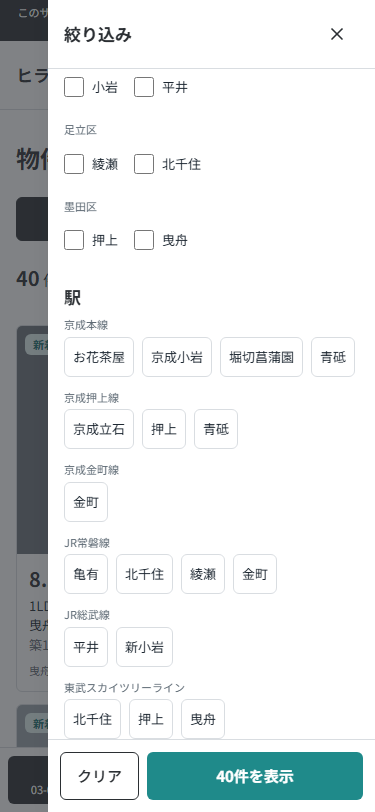
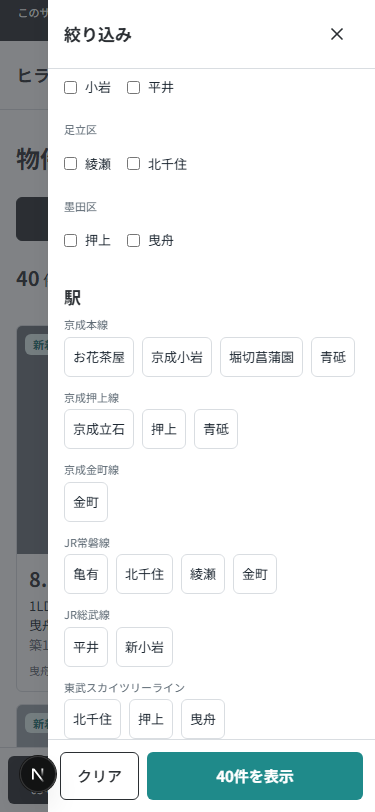
style: match checkbox size to filter text [J-035]

diff --git a/web/src/components/search/FilterPanel.tsx b/web/src/components/search/FilterPanel.tsx
@@ -186,10 +186,11 @@ function Chip({ label, pressed, onClick }: { label: string; pressed: boolean; on
 	);
 }
 
+/** チェックボックスは項目文字(小 13px)と同じ高さ(J-035 条件追加)。色・角丸はブラウザ既定+accent のまま */
 function Check({ label, checked, onChange }: { label: string; checked: boolean; onChange: () => void }) {
 	return (
 		<label className="flex min-h-11 items-center gap-2 text-small lg:min-h-0">
-			<input type="checkbox" checked={checked} onChange={onChange} className="h-5 w-5 accent-accent" />
+			<input type="checkbox" checked={checked} onChange={onChange} className="size-[13px] accent-accent" />
 			{label}
 		</label>
 	);

diff --git a/docs/記録シート.md b/docs/記録シート.md
@@ -321,9 +321,9 @@
 
 ### J-035 | 09/09 | 物件一覧 / Des | 章 2
 - **AIの初案**:絞り込み欄(PC 左カラム・ドロワー)の項目文字は本文と同じサイズ(15 / 16px)。区名・沿線名の小見出しは 小 13px。チップは 13px・内側余白 12
-- **自分の判断**:条件追加 — SHIN が「大きい」と指摘。項目文字は本文より1段小さく、区名・沿線名はさらに1段小さく。「エリア」「駅」の見出しは変えない。チップの内側余白は文字に合わせて1段詰める。px は 03 §4 のスケールから取る
+- **自分の判断**:条件追加 — SHIN が「大きい」と指摘。項目文字は本文より1段小さく、区名・沿線名はさらに1段小さく。「エリア」「駅」の見出しは変えない。チップの内側余白は文字に合わせて1段詰める。px は 03 §4 のスケールから取る。条件追加(09/09):チェックボックスの四角が文字に対して大きい。下げた後の項目文字サイズに合わせる(文字の高さと同程度・03 の文字スケールから)。色・角丸は変えない。ドロワー側も同じ
 - **判断の出所**:
-- **修正後**:項目(チェックボックスのラベル・セレクト)= 小 13px、区名・沿線名 = 最小 11 / 12px、見出しは H3 17 / 18px のまま、チップ 13px・余白 12 → 8。すべて 03 §4 のスケール内で提案なし。03 §6 に追記し v0.7
+- **修正後**:項目(チェックボックスのラベル・セレクト)= 小 13px、区名・沿線名 = 最小 11 / 12px、見出しは H3 17 / 18px のまま、チップ 13px・余白 12 → 8。チェックボックス 20px → 13px(項目文字と同じ高さ・別コミット)。すべて 03 §4 のスケール内で提案なし。03 §6 に追記し v0.7
 - **証拠**:docs/screenshots/J-035-before-{1280,375}.png / J-035-after-{1280,375}.png・本チャット
 
 **記入例(形式の参考。実際の記録ではない)**

diff --git a/docs/03-デザイン基準.md b/docs/03-デザイン基準.md
@@ -90,7 +90,7 @@
 
 **アイコン**:lucide-react・20px・currentColor(親の文字色を継承)。線幅は既定。装飾には使わない
 
-**絞り込み欄(左カラム・ドロワー)**:項目の文字は本文より1段小さい「小」13px、区名・沿線名の小見出しは「最小」11 / 12px。「エリア」「駅」などの見出しは H3 のまま(J-035)
+**絞り込み欄(左カラム・ドロワー)**:項目の文字は本文より1段小さい「小」13px、区名・沿線名の小見出しは「最小」11 / 12px。「エリア」「駅」などの見出しは H3 のまま。チェックボックスは項目文字と同じ高さ(13px)(J-035)
 
 **チップ(トグル)**:角丸 6px・高さ 40(スマホ)/ 32(PC)・13px・内側余白 8(J-035)。選択中は青緑の塗り+白文字、未選択は灰線の枠+墨文字。駅フィルターに使う(沿線ごとに横流し・複数路線の駅は重複表示可・J-034)
 
